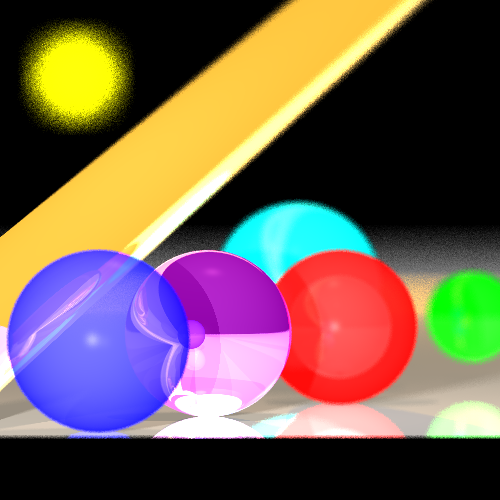
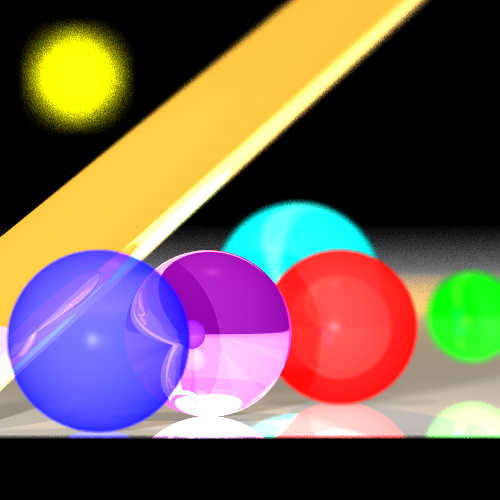
mp2

diff --git a/Tests/geometries/BVHBoxTest.java b/Tests/geometries/BVHBoxTest.java
@@ -1,0 +1,91 @@
+package geometries;
+
+import org.junit.Test;
+import primitives.Point3D;
+import primitives.Ray;
+import primitives.Vector;
+
+import static org.junit.Assert.*;
+
+public class BVHBoxTest {
+
+    @Test
+    public void anyIntersections() {
+        BVHBox box = new BVHBox(Point3D.ZERO, new Point3D(3,3,3));
+
+        // ============ Equivalence Partitions Tests ==============
+
+        // TC01: Ray's line is outside the box
+        assertFalse("Ray's line out of box",
+                box.anyIntersections(new Ray(new Point3D(2, -3, 2), new Vector(3, 5, 0))));
+
+        // TC02: Ray starts before and crosses the box
+        assertTrue("Ray starts before",
+                box.anyIntersections(new Ray(new Point3D(2, -3, 2), new Vector(-3, 7, 0))));
+
+        // TC03: Ray starts inside the box
+        assertTrue("Ray starts inside",
+                box.anyIntersections(new Ray(new Point3D(1, 1, 2), new Vector(0, 3, 3))));
+
+        // TC04: Ray starts after the box
+        assertFalse("Ray starts after",
+                box.anyIntersections(new Ray(new Point3D(1, 4, 5), new Vector(0, 3, 3))));
+
+        // =============== Boundary Values Tests ==================
+
+        // **** Group: Ray's line parallel to 2 (non parallel) box edges
+        // TC11: Ray starts before and crosses the box
+        assertTrue("Ray starts before 2 parallel",
+                box.anyIntersections(new Ray(new Point3D(-1, 1, 2), new Vector(1, 0, 0))));
+
+        // TC12: Ray starts inside and crosses the box
+        assertTrue("Ray starts inside 2 parallel",
+                box.anyIntersections(new Ray(new Point3D(1, 1, 2), new Vector(1, 0, 0))));
+
+        // TC13: Ray starts after and crosses the box
+        assertFalse("Ray starts after 2 parallel",
+                box.anyIntersections(new Ray(new Point3D(-1, 1, 2), new Vector(-1, 0, 0))));
+
+        // TC14: Ray does not cross the box
+        assertFalse("Ray does not cross 2 parallel",
+                box.anyIntersections(new Ray(new Point3D(-1, -1, 2), new Vector(1, 0, 0))));
+
+        // TC15: Ray crosses edge
+        assertTrue("Ray crosses edge 2 parallel",
+                box.anyIntersections(new Ray(new Point3D(-1, 0, 2), new Vector(1, 0, 0))));
+
+        // TC16: Ray crosses border
+        assertTrue("Ray crosses border 2 parallel",
+                box.anyIntersections(new Ray(new Point3D(-1, 0, 0), new Vector(1, 0, 0))));
+
+        // **** Group: Ray's line parallel to 1 box edges
+        // TC17: Ray starts before and crosses the box
+        assertTrue("Ray starts before parallel",
+                box.anyIntersections(new Ray(new Point3D(-1, 1, 2), new Vector(2, -0.75, 0))));
+
+        // TC18: Ray starts inside and crosses the box
+        assertTrue("Ray starts inside parallel",
+                box.anyIntersections(new Ray(new Point3D(1, 0.25, 2), new Vector(2, -0.75, 0))));
+
+        // TC19: Ray starts after
+        assertFalse("Ray starts after parallel",
+                box.anyIntersections(new Ray(new Point3D(-1, 1, 2), new Vector(-2, 0.75, 0))));
+
+        // TC20: Ray crosses border
+        assertTrue("Ray crosses border parallel",
+                box.anyIntersections(new Ray(new Point3D(-1, 1, 2), new Vector(1, -1, 0))));
+
+        // TC21: Ray crosses vertex
+        assertTrue("Ray crosses vertex parallel",
+                box.anyIntersections(new Ray(new Point3D(-1, 1, 3), new Vector(1, -1, 0))));
+
+        // **** Group: Ray's line crosses edges/borders/vertex
+        // TC22: Ray crosses vertex
+        assertTrue("Ray crosses vertex",
+                box.anyIntersections(new Ray(new Point3D(-1, 1, 2), new Vector(1, -1, 1))));
+
+        // TC23: Ray crosses border
+        assertTrue("Ray crosses border",
+                box.anyIntersections(new Ray(new Point3D(-1, 1, 2), new Vector(2, -2, 1))));
+    }
+}

diff --git a/src/geometries/Geometries.java b/src/geometries/Geometries.java
@@ -160,12 +160,11 @@ public class Geometries extends Intersectable {
     public List<GeoPoint> findIntersections(Ray ray) {
         List<GeoPoint> Intersections = new LinkedList<GeoPoint>();
         if (box.anyIntersections(ray))
-            for (Intersectable element : _finalElements)
-                if (element.getBox().anyIntersections(ray)) {
-                    List<GeoPoint> temp = element.findIntersections(ray);
-                    if (temp != null)
+            for (Intersectable element : _finalElements) {
+                List<GeoPoint> temp = element.findIntersections(ray);
+                if (temp != null)
                         Intersections.addAll(temp);
-                }
+            }
         for (Intersectable element : _infinityElements) {
             List<GeoPoint> temp = element.findIntersections(ray);
             if (temp != null)

diff --git a/src/geometries/Polygon.java b/src/geometries/Polygon.java
@@ -173,6 +173,8 @@ public class Polygon extends Geometry {
 
     @Override
     public List<GeoPoint> findIntersections(Ray ray) {
+        if (!getBox().anyIntersections(ray))
+            return null;
         List<GeoPoint> point = _plane.findIntersections(ray);
         if (point == null)
             return null;

diff --git a/src/geometries/Sphere.java b/src/geometries/Sphere.java
@@ -84,6 +84,8 @@ public class Sphere extends RadialGeometry {
 
     @Override
     public List<GeoPoint> findIntersections(Ray ray) {
+        if (!getBox().anyIntersections(ray))
+            return null;
         Vector u;
         try {
             u = _center.subtract(ray.get_startPoint());
